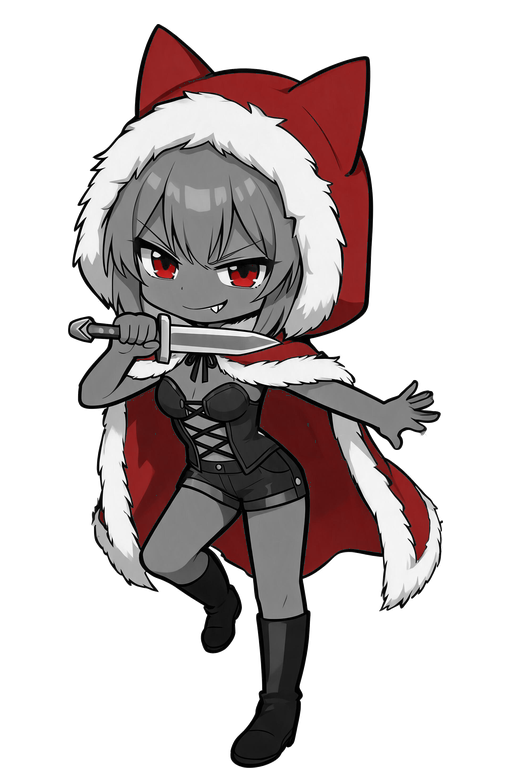
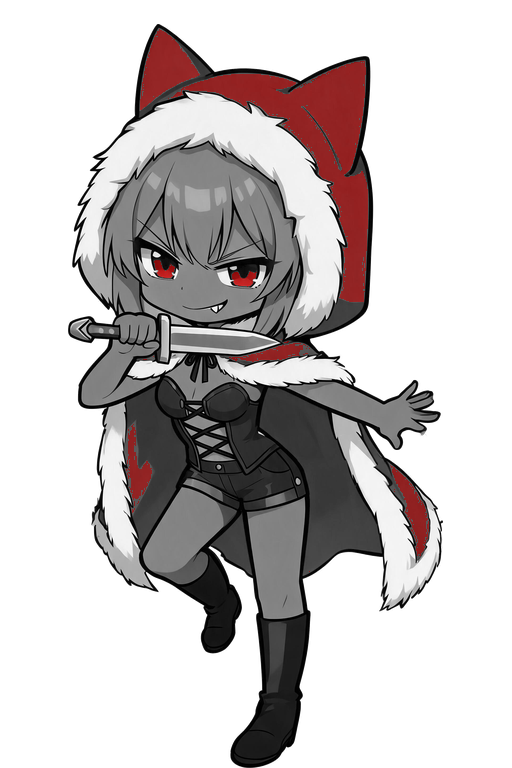
art: 玛丽苏按官方服装重制（白荷叶边+青蓝蝴蝶结+连体紧身衣），5 套表情；修调色门限（红/绿/青按彩度+亮度判定）

diff --git a/src/story.js b/src/story.js
@@ -242,7 +242,7 @@ const STORY = {
       { t: 'say', who: 'marysue', expr: 'fake', show: true, text: '哎呀呀……' },
       { t: 'say', who: 'marysue', expr: 'mock', show: true, text: '真是难看呢。' },
       { t: 'say', who: 'marysue', expr: 'fake', show: true, text: '人家给你的舞台，可不是让你这样收场的哦。' },
-      { t: 'say', who: 'marysue', expr: 'star', show: true, text: '没用的孩子，是要被换掉的。' },
+      { t: 'say', who: 'marysue', expr: 'creepy', show: true, text: '没用的孩子，是要被换掉的。' },
 
       // 醒悟
       { t: 'say', who: '', text: '玛丽苏抬起手，绿色的东西在她掌心聚成一根针。' },

diff --git a/tools/unify_palette.py b/tools/unify_palette.py
@@ -47,15 +47,15 @@ def unify(src, dst, gray_steps=GRAY_STEPS):
 
             # 绿要先于青判定：黄绿(89°)与青(196°)之间有重叠带(151-167)，
             # 重叠区归绿，否则玛丽苏的绿泳衣上会冒出青色斑点
-            if near_red and chroma >= 0.25:
+            if near_red and chroma >= 0.42:
                 rr, gg, bb = colorsys.hls_to_rgb(0.0, ll, ss)
                 px[x, y] = (int(rr * 255 + 0.5), int(gg * 255 + 0.5), int(bb * 255 + 0.5), a)
                 locked += 1
-            elif near_green and chroma >= 0.15:
+            elif near_green and chroma >= 0.16 and ll <= 0.88:
                 rr, gg, bb = colorsys.hls_to_rgb(GREEN_HUE / 360.0, ll, ss)
                 px[x, y] = (int(rr * 255 + 0.5), int(gg * 255 + 0.5), int(bb * 255 + 0.5), a)
                 locked += 1
-            elif near_cyan and chroma >= 0.15:
+            elif near_cyan and chroma >= 0.20 and ll <= 0.88:
                 rr, gg, bb = colorsys.hls_to_rgb(CYAN_HUE / 360.0, ll, ss)
                 px[x, y] = (int(rr * 255 + 0.5), int(gg * 255 + 0.5), int(bb * 255 + 0.5), a)
                 locked += 1
